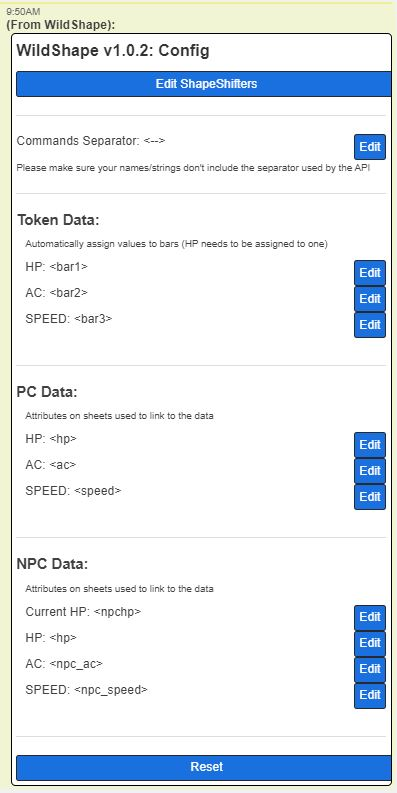
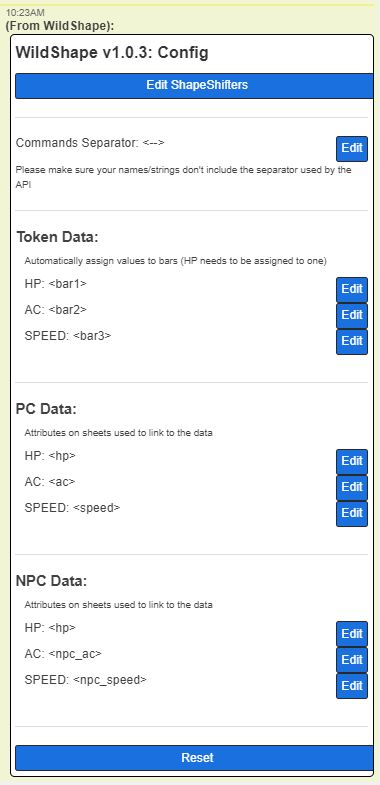
modified some messaging around new versions, updated help image

Changed region(s): [[0.0, 0.0, 1.0, 1.0], [0.0289, 0.7032, 0.55, 0.8866], [0.0289, 0.4586, 0.55, 0.6726]]

diff --git a/WildShape.js b/WildShape.js
@@ -258,7 +258,7 @@ class WildShapeMenu extends WildMenu
         this.showMenu(WS_API.NAME, contents, WS_API.NAME + ': ShapeShifters');
     }
 
-    showConfigMenu(first) {
+    showConfigMenu(newVersion) {
         const config = state[WS_API.STATENAME][WS_API.DATA_CONFIG];
 
         const apiCmdBase = this.CMD.ROOT;
@@ -310,7 +310,7 @@ class WildShapeMenu extends WildMenu
         //const importButton = this.makeButton('Import Config', this.CMD.CONFIG + this.SEP + WS_API.CMD.IMPORT + this.SEP + '?{Config}', ' width: 100%');
         const resetButton = this.makeButton('Reset', this.CMD.CONFIG_RESET, ' width: 100%');
 
-        let title_text = WS_API.NAME + " v" + WS_API.VERSION + ((first) ? ': First Time Setup' : ': Config');
+        let title_text = WS_API.NAME + " v" + WS_API.VERSION + ((newVersion) ? ': New Version Setup' : ': Config');
         let contents = showShiftersButton
                         + '<hr>' + this.makeList(otherSettingsList)
                         + '<hr>' + this.makeList(tokenDataList)
@@ -1379,16 +1379,17 @@ var WildShape = WildShape || (function() {
     const setDefaults = (reset) => {
         let newVersionDetected = false;
 
-        if(!_.has(state, WS_API.STATENAME) || !state[WS_API.STATENAME] || reset)
+        if(!state[WS_API.STATENAME] || typeof state[WS_API.STATENAME] !== 'object' || reset)
         {
             state[WS_API.STATENAME] = {};
             reset = true;
         }
 
-        if (!state[WS_API.STATENAME][WS_API.DATA_CONFIG] || reset) 
+        if (!state[WS_API.STATENAME][WS_API.DATA_CONFIG] || typeof state[WS_API.STATENAME][WS_API.DATA_CONFIG] !== 'object' || reset) 
         {
             state[WS_API.STATENAME][WS_API.DATA_CONFIG] = WS_API.DEFAULTS.CONFIG;
             state[WS_API.STATENAME][WS_API.DATA_CONFIG].VERSION = WS_API.VERSION;
+            newVersionDetected = true;
         }        
         else 
         {
@@ -1409,12 +1410,9 @@ var WildShape = WildShape || (function() {
 
         MENU.updateConfig();
 
-        if (!state[WS_API.STATENAME].hasOwnProperty('firsttime') || reset || newVersionDetected)
+        if (reset || newVersionDetected)
         {
-
             MENU.showConfigMenu(true);
-
-            state[WS_API.STATENAME].firsttime = false;
         }
     };
 
